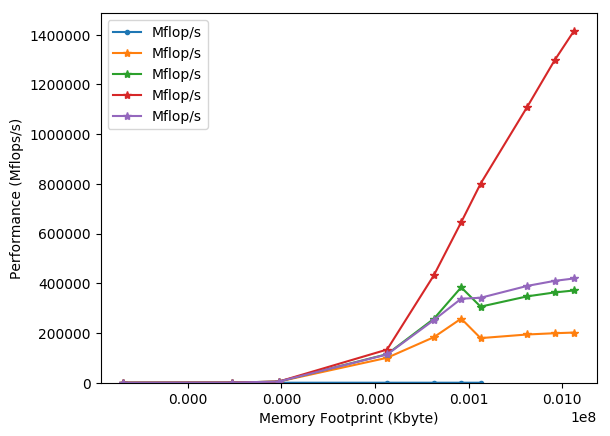
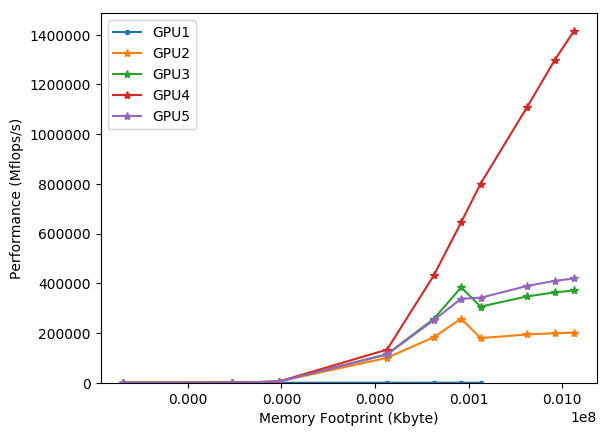
Corrected legends

Changed region(s): [[0.2492, 0.0596, 0.3426, 0.2982]]

diff --git a/matmult/data/viz.py b/matmult/data/viz.py
@@ -41,7 +41,7 @@ df4.plot('memory', ax=ax, style='*-')
 df5.plot('memory', ax=ax, style='*-')
 #df6.plot('memory', ax=ax, style='*-')
 #df7.plot('memory', ax=ax, style='*-')
-plt.legend(loc='upper left')
+plt.legend(["GPU1","GPU2","GPU3","GPU4","GPU5"],loc='upper left')
 plt.xlabel('Memory Footprint (Kbyte)')
 plt.ylabel('Performance (Mflops/s)')
 plt.gca().set_ylim(bottom=0)
